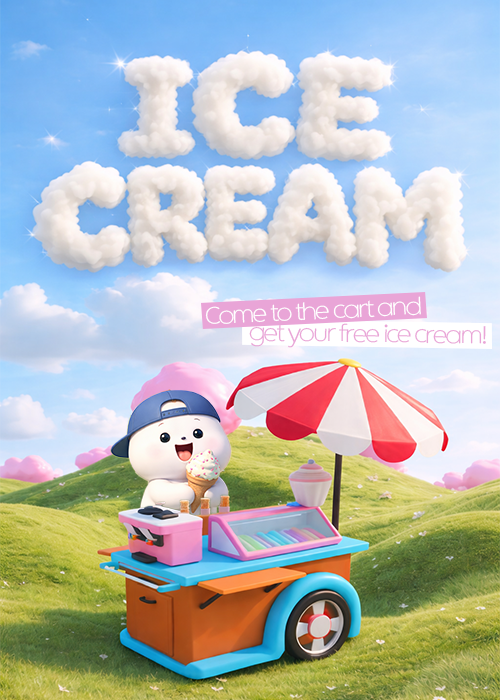
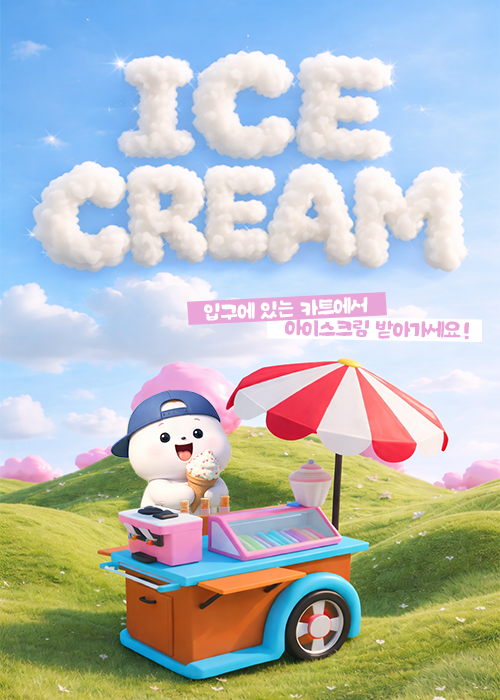
[#45]; feat: 공항 포스터 모달 추가

Changed region(s): [[0.36, 0.42, 0.99, 0.51]]

diff --git a/src/stages/Stage6.js b/src/stages/Stage6.js
@@ -18,9 +18,14 @@ const AIRPORT_SUBTITLE_HIDE_EVENT = "gum:airportAnnouncementSubtitle:hide";
 const AIRPORT_CHIME_SHOW_EVENT = "gum:airportAnnouncementChime:show";
 const AIRPORT_CHIME_HIDE_EVENT = "gum:airportAnnouncementChime:hide";
 const STAGE6_FINISH_EVENT = "gum:kiosk-finish";
+const STAGE6_INT_CLICK_EVENT = "gum:stage6-int-click";
+const STAGE6_POSTER_MODAL_SHOW_EVENT = "gum:stage6PosterModal:show";
+const STAGE6_POSTER_MODAL_HIDE_EVENT = "gum:stage6PosterModal:hide";
+const INT_PREFIX = "INT_";
 
 export function Stage6() {
   const objects = [];
+  /** @type {import("../types.js").StageBasicConfig & { model: import("../types.js").Stage2ModelConfig, boardPosterImage?: string, bench?: import("../types.js").Stage3PropConfig, curtain?: { path: string, position?: { x?: number, y?: number, z?: number }, rotation?: { x?: number, y?: number, z?: number }, scale?: number, castShadow?: boolean, receiveShadow?: boolean } }} */
   const config = STAGE6_CONFIG;
   const airportSubtitleLeadSec =
     Number(STAGE6_AIRPORT_ANNOUNCEMENT_SUBTITLE_LEAD_SEC ?? 0.75) || 0;
@@ -31,6 +36,13 @@ export function Stage6() {
     : [];
   const glbLoader = getGLBLoader();
   const fbxLoader = new FBXLoader();
+  const intRaycastMeshes = [];
+  const pointer = new THREE.Vector2();
+  const raycaster = new THREE.Raycaster();
+  let canvasRef = null;
+  let cameraRef = null;
+  let onPointerDown = null;
+  let onPointerMove = null;
   let airplaneCallSignTimeoutId = 0;
   let airportAnnounceIntroTimeoutId = 0;
   /** @type {HTMLAudioElement | null} */
@@ -188,10 +200,60 @@ export function Stage6() {
     }
   };
 
+  function normalizeIntNameToken(value) {
+    return String(value ?? "")
+      .toLowerCase()
+      .replace(/[^a-z0-9]/g, "");
+  }
+
+  function registerIntInteractions(rootModel) {
+    intRaycastMeshes.length = 0;
+    /** @type {Set<THREE.Mesh>} */
+    const meshSet = new Set();
+    rootModel.traverse((obj) => {
+      if (typeof obj.name !== "string" || !obj.name.startsWith(INT_PREFIX))
+        return;
+      obj.traverse((child) => {
+        if (child?.isMesh) meshSet.add(child);
+      });
+    });
+    intRaycastMeshes.push(...meshSet);
+    if (import.meta.env.DEV) {
+      console.log(
+        `[Stage6] INT_ clickable mesh count: ${intRaycastMeshes.length}`,
+      );
+    }
+  }
+
+  function getPointerHitTarget(event) {
+    if (!canvasRef || !cameraRef || intRaycastMeshes.length === 0) return null;
+    const rect = canvasRef.getBoundingClientRect();
+    pointer.x = ((event.clientX - rect.left) / rect.width) * 2 - 1;
+    pointer.y = -((event.clientY - rect.top) / rect.height) * 2 + 1;
+    raycaster.setFromCamera(pointer, cameraRef);
+    const hits = raycaster.intersectObjects(intRaycastMeshes, false);
+    for (const hit of hits) {
+      let p = hit.object;
+      while (p) {
+        if (typeof p.name === "string" && p.name.startsWith(INT_PREFIX)) {
+          const suffix = p.name.slice(INT_PREFIX.length);
+          return {
+            intName: p.name,
+            target: normalizeIntNameToken(suffix),
+          };
+        }
+        p = p.parent;
+      }
+    }
+    return null;
+  }
+
   return {
     camera: null,
 
     setup(scene, renderer) {
+      const canvas = renderer.domElement;
+      canvasRef = canvas;
       this.camera = new THREE.PerspectiveCamera(
         config.camera.fov,
         window.innerWidth / window.innerHeight,
@@ -212,9 +274,38 @@ export function Stage6() {
       } else {
         this.camera.lookAt(0, 0, 0);
       }
+      cameraRef = this.camera;
 
       scene.background = new THREE.Color(config.background.color);
       window.addEventListener("keydown", handleKeyDown, { capture: true });
+      onPointerDown = (event) => {
+        if (event.button !== 0) return;
+        const hit = getPointerHitTarget(event);
+        if (!hit) return;
+        console.log(`[Stage6] INT click: ${hit.intName}`);
+        if (hit.target === "boardpic" || hit.target === "poster") {
+          window.dispatchEvent(
+            new CustomEvent(STAGE6_POSTER_MODAL_SHOW_EVENT, {
+              detail: {
+                imageSrc:
+                  config.boardPosterImage ?? "/assets/poster/stamp_poster.png",
+                intName: hit.intName,
+              },
+            }),
+          );
+        }
+        window.dispatchEvent(
+          new CustomEvent(STAGE6_INT_CLICK_EVENT, {
+            detail: hit,
+          }),
+        );
+      };
+      canvas.addEventListener("pointerdown", onPointerDown, { capture: true });
+      onPointerMove = (event) => {
+        const hit = getPointerHitTarget(event);
+        canvas.style.cursor = hit ? "pointer" : "default";
+      };
+      canvas.addEventListener("pointermove", onPointerMove);
 
       // 배경 GLB 로드
       glbLoader.load(config.model.path, {
@@ -241,6 +332,7 @@ export function Stage6() {
 
           objects.push(model);
           scene.add(model);
+          registerIntInteractions(model);
         },
         onError: (err) => console.error("❌ Stage6 배경 로드 에러:", err),
       });
@@ -323,6 +415,21 @@ export function Stage6() {
     cleanup(scene) {
       cancelAirplaneCallSignScheduled();
       window.removeEventListener("keydown", handleKeyDown, { capture: true });
+      window.dispatchEvent(new CustomEvent(STAGE6_POSTER_MODAL_HIDE_EVENT));
+      if (canvasRef && onPointerDown) {
+        canvasRef.removeEventListener("pointerdown", onPointerDown, {
+          capture: true,
+        });
+      }
+      if (canvasRef && onPointerMove) {
+        canvasRef.removeEventListener("pointermove", onPointerMove);
+        canvasRef.style.cursor = "default";
+      }
+      canvasRef = null;
+      cameraRef = null;
+      onPointerDown = null;
+      onPointerMove = null;
+      intRaycastMeshes.length = 0;
       objects.forEach((obj) => {
         scene.remove(obj);
         obj.traverse((child) => {

diff --git a/src/style.css b/src/style.css
@@ -226,3 +226,48 @@ body {
 .airport-chime-indicator.visible {
   opacity: 1;
 }
+
+.stage6-poster-modal-overlay {
+  position: fixed;
+  inset: 0;
+  z-index: 2100;
+  background: rgba(0, 0, 0, 0.55);
+  display: flex;
+  align-items: center;
+  justify-content: center;
+  padding: 24px;
+}
+
+.stage6-poster-modal-content {
+  position: relative;
+  width: min(92vw, 560px);
+  max-height: 92vh;
+  border-radius: 12px;
+  overflow: hidden;
+  box-shadow: 0 14px 34px rgba(0, 0, 0, 0.35);
+  background: #fff;
+}
+
+.stage6-poster-modal-image {
+  display: block;
+  width: 100%;
+  height: auto;
+  max-height: 92vh;
+  object-fit: contain;
+  user-select: none;
+}
+
+.stage6-poster-modal-close {
+  position: absolute;
+  top: 8px;
+  right: 10px;
+  width: 32px;
+  height: 32px;
+  border: 0;
+  border-radius: 999px;
+  background: rgba(0, 0, 0, 0.52);
+  color: #fff;
+  font-size: 22px;
+  line-height: 1;
+  cursor: pointer;
+}

diff --git a/src/components/Stage6PosterModal.jsx b/src/components/Stage6PosterModal.jsx
@@ -1,0 +1,44 @@
+import { useEffect } from "react";
+
+export function Stage6PosterModal({ isOpen, imageSrc, onClose }) {
+  useEffect(() => {
+    if (!isOpen) return;
+    const onKeyDown = (event) => {
+      if (event.key === "Escape") onClose?.();
+    };
+    window.addEventListener("keydown", onKeyDown);
+    return () => window.removeEventListener("keydown", onKeyDown);
+  }, [isOpen, onClose]);
+
+  if (!isOpen) return null;
+
+  return (
+    <div
+      className="stage6-poster-modal-overlay"
+      role="dialog"
+      aria-modal="true"
+      aria-label="Stage6 poster"
+      onClick={onClose}
+    >
+      <div
+        className="stage6-poster-modal-content"
+        onClick={(event) => event.stopPropagation()}
+      >
+        <button
+          type="button"
+          className="stage6-poster-modal-close"
+          onClick={onClose}
+          aria-label="close poster modal"
+        >
+          ×
+        </button>
+        <img
+          src={imageSrc}
+          alt="GGUM stamp poster"
+          className="stage6-poster-modal-image"
+          draggable={false}
+        />
+      </div>
+    </div>
+  );
+}

diff --git a/src/App.jsx b/src/App.jsx
@@ -7,9 +7,14 @@ import { MemoryTestPage } from "./pages/MemoryTestPage.jsx";
 import { StartPage } from "./pages/StartPage.jsx";
 import { NoticeModalBoard } from "./components/NoticeModalBoard.jsx";
 import { GumCardsModalOverlay } from "./components/GumCardsModalOverlay.jsx";
+import { Stage6PosterModal } from "./components/Stage6PosterModal.jsx";
 
 export function App() {
   const [showNoticeModal, setShowNoticeModal] = useState(false);
+  const [showStage6PosterModal, setShowStage6PosterModal] = useState(false);
+  const [stage6PosterImageSrc, setStage6PosterImageSrc] = useState(
+    "/assets/poster/stamp_poster.png",
+  );
   const [airportSubtitleText, setAirportSubtitleText] = useState("");
   const [showAirportSubtitle, setShowAirportSubtitle] = useState(false);
   const [fadeOutAirportSubtitle, setFadeOutAirportSubtitle] = useState(false);
@@ -29,6 +34,30 @@ export function App() {
     return () => {
       window.removeEventListener("gum:showNoticeModal", showHandler);
       window.removeEventListener("gum:closeNoticeModal", closeHandler);
+    };
+  }, []);
+
+  useEffect(() => {
+    const showStage6Poster = (event) => {
+      const imageSrc =
+        typeof event?.detail?.imageSrc === "string" && event.detail.imageSrc
+          ? event.detail.imageSrc
+          : "/assets/poster/stamp_poster.png";
+      setStage6PosterImageSrc(imageSrc);
+      setShowStage6PosterModal(true);
+    };
+    const hideStage6Poster = () => setShowStage6PosterModal(false);
+    window.addEventListener("gum:stage6PosterModal:show", showStage6Poster);
+    window.addEventListener("gum:stage6PosterModal:hide", hideStage6Poster);
+    return () => {
+      window.removeEventListener(
+        "gum:stage6PosterModal:show",
+        showStage6Poster,
+      );
+      window.removeEventListener(
+        "gum:stage6PosterModal:hide",
+        hideStage6Poster,
+      );
     };
   }, []);
 
@@ -126,6 +155,11 @@ export function App() {
       <NoticeModalBoard
         isOpen={showNoticeModal}
         onClose={() => setShowNoticeModal(false)}
+      />
+      <Stage6PosterModal
+        isOpen={showStage6PosterModal}
+        imageSrc={stage6PosterImageSrc}
+        onClose={() => setShowStage6PosterModal(false)}
       />
       <GumCardsModalOverlay />
       <div

diff --git a/src/config/stages/stage6.js b/src/config/stages/stage6.js
@@ -1,6 +1,6 @@
 // Phase 6: 헤어짐 (공항 배경, 배웅)
 
-/** @type {import("../../types.js").StageBasicConfig & { model: import("../../types.js").Stage2ModelConfig, bench?: import("../../types.js").Stage3PropConfig, curtain?: { path: string, position?: { x?: number, y?: number, z?: number }, rotation?: { x?: number, y?: number, z?: number }, scale?: number, castShadow?: boolean, receiveShadow?: boolean } }} */
+/** @type {import("../../types.js").StageBasicConfig & { model: import("../../types.js").Stage2ModelConfig, bench?: import("../../types.js").Stage3PropConfig, curtain?: { path: string, position?: { x?: number, y?: number, z?: number }, rotation?: { x?: number, y?: number, z?: number }, scale?: number, castShadow?: boolean, receiveShadow?: boolean }, boardPosterImage?: string }} */
 export const STAGE6_CONFIG = {
   camera: {
     fov: 60,
@@ -19,4 +19,5 @@ export const STAGE6_CONFIG = {
     castShadow: true,
     receiveShadow: true,
   },
+  boardPosterImage: "/assets/poster/stamp_poster.png",
 };